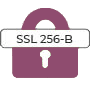
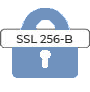
checkoutready

diff --git a/checkout.html b/checkout.html
@@ -8,7 +8,7 @@
         <meta name="viewport" content="width=device-width, initial-scale=1, shrink-to-fit=no">
         <meta name="description" content="">
         <meta name="author" content="">
-        <title>Carrito </title>
+        <title>Carrito</title>
         <!-- FavIcon-->
         <link rel="icon" href="img/fav.html" type="image/png">
         <!-- Bootstrap core CSS -->
@@ -73,10 +73,10 @@ height="0" width="0" style="display:none;visibility:hidden"></iframe></noscript>
             <div class="container">
                 <div class="row align-items-center">
                     <div class="col-md-2 col-sm-6 col-6 logo">
-                        <a href="https://aprendeyogaacademia.com/" target="_blank"> <img src="img/logonuevo.jpg" alt="logo" class="img-fluid" width="50%"> </a>
+                 <img src="img/Libreriadigitallogo1.png" alt="logo" class="img-fluid" width="50%"> </a>
                     </div>
                     <div class="col-md-3 hdphone">
-                        <p>Aprende en casa</p>
+                        <p>Libreria digital. Aprende de una manera distinta</p>
                     </div>
                     <div class="col-md-3 hdphone">
                         <img src="img/seguridad.png" alt="security" class="img-fluid">
@@ -89,7 +89,7 @@ height="0" width="0" style="display:none;visibility:hidden"></iframe></noscript>
         <div class="container  rounded py-5  mx-auto bg-light">
             <div class="row  justify-content-center">
                 <div class="col-md-5 order-md-2 col-xl-4" >
-                    <h4 class="d-flex justify-content-between mb-3 mx-3"> <span class="" style="color:#8f4c6f;"><b>Tu Carrito </b><i class="fas fa-cart-arrow-down"></i></span> </h4>
+                    <h4 class="d-flex justify-content-between mb-3 mx-3"> <span class="" style="color:#718aff;"><b>Tu Carrito </b><i class="fas fa-cart-arrow-down"></i></span> </h4>
                     <ul class="list-group">
                         <li class="list-group-item d-flex justify-content-between" >
                             <div>
@@ -125,7 +125,7 @@ height="0" width="0" style="display:none;visibility:hidden"></iframe></noscript>
 
                 <div class="col-md-6 order-md-2 my-auto col-xl-5 " id="arriba" >
                     <div id="gr" >
-                        <h2 class="mt-5 pt-5 text-center mb-15 f-50 font-weight-bold">¿Cómo hago para comprar?</h2>
+                        <h2 class="mt-15 pt-15 text-center mb-15 f-50 font-weight-bold">¿Cómo hago para comprar?</h2>
                         <hr   style="height:2px;width:40%; background-color:#c53b3b; text-shadow: 3px 2px 5px black;"> 
                         <p class="mt-2 text-dark lead mx-5 pb-3"><b>Completá el siguiente formulario</b> para abonar el curso. Una vez que lo abones, vas a recibir al instante un e-mail con el acceso al curso.</p>
                     </div>
@@ -152,7 +152,7 @@ height="0" width="0" style="display:none;visibility:hidden"></iframe></noscript>
                                 </div>
                             </div>
                             <p class="text-left my-2">Luego de abonar, aguardá unos segundos para ser dirigida a nuestro sitio web 😊.</p>
-                            <button type="button" id="submitButton" style="cursor:pointer; background-color:#68aa21;" class="btn hvr-sweep-to-right w-100 py-3 text-white">👉 Proceder con el pago</button>
+                            <button type="button" id="submitButton" style="cursor:pointer; background-color: green;" class="btn hvr-sweep-to-right w-100 py-3 text-white">👉 Proceder con el pago</button>
                             <div class="loading" id="spinnerloading">
                                 <div class="loader"></div>
                             </div>
@@ -171,15 +171,12 @@ height="0" width="0" style="display:none;visibility:hidden"></iframe></noscript>
                 <p class="pi-draggable text-center" draggable="true">Tus datos están seguros</p>
             </div>
             <div class="col-4">
-                <img class="img-fluid d-block mx-auto" src="img/badge3.png">
+                <img class="img-fluid d-block mx-auto" src="img/badget33.png">
                 <p class="pi-draggable text-center">Garantía de satisfacción 100%</p>
             </div>
         </div>
         <div class="call-button mt-5" id="ch">
             <div class="row">
-                <div class="col-10 mx-auto">
-                    <a href="#arriba" class=" hvr-sweep-to-top " >Pagar&nbsp; 🛒</a>
-                </div>
                 <div class="col-md-6 my-2 text-center payments">
                     <img src="img/securityjpg.jpg" class="img-fluid " >
                 </div>
@@ -189,7 +186,7 @@ height="0" width="0" style="display:none;visibility:hidden"></iframe></noscript>
             <div class="container">
                 <div class="row">
                     <div class="col-md-12">
-                        <h3 class="font-bold">¿Querés hablar con nosotras? ¡Escribinos ahora!</h3>
+                        <h3 class="font-bold">¿Querés hablar con nosotros? ¡Escribinos ahora!</h3>
                         <hr>
                     </div>
                 </div>
@@ -209,7 +206,7 @@ height="0" width="0" style="display:none;visibility:hidden"></iframe></noscript>
             <div class="container ">
                 <div class="row align-items-center">
                     <div class="col-md-5 mx-auto">
-                        <a href="https://aprendeyogaacademia.com/" target="_blank"> <img src="img/logonuevo.jpg"   alt="logo" class="img-fluid col-4"> </a>
+                        <a href="https://aprendeyogaacademia.com/" target="_blank"> <img src="img/Libreriadigitallogo1.png"   alt="logo" class="img-fluid col-4"> </a>
                     </div>
 
                     <div class="col-md-3" id="gr">
@@ -240,7 +237,11 @@ height="0" width="0" style="display:none;visibility:hidden"></iframe></noscript>
                     <div class="modal-body">
                         <div class="row">
                             <div class="col-md-12">
-                                <p>El presente curso ha sido diseñado para ser realizado y ejecutado sin la supervisión de un instructor profesional de yoga. Cumplimos en informarle que el presente curso, junto con toda la información, instrucciones e indicaciones contenidas en el, ha sido diseñado siguiendo los lineamientos generales de cada postura de yoga, aplicables a la generalidad de las personas. Le rogamos tener en consideración que el yoga es un ejercicio físico y que debe tomar las precauciones necesarias antes de practicarlo. Previo a comenzar el curso, recomendamos consultar a un médico a fin de asegurarse de estar en condiciones físicas óptimas para la práctica del yoga sin incurrir en riesgos para su salud. El vendedor, el autor y cualquier otro participe de la cadena comercialización del presente curso de yoga, no tendrán ningún grado de responsabilidad por cualquier tipo de lesión o menoscabo a la salud que pueda resultar de manera directa o indirecta de la realización indebida o errónea del presente curso. Si en cualquier momento de la realización del curso usted experimenta cualquier tipo de molestia o dolor, suspenda inmediatamente los ejercicios y consulte a un médico. El vendedor, autor o cualquier otro integrante de la cadena de consumo no pueden garantizarle que la realización del presente curso vaya a tener un impacto positivo en su salud. Al adquirir el presente curso via internet, a través de una página web, usted opta expresamente por recibir esta información en soporte digital. 1 Art. 4, Ley Nacional 24.240: “Información. El proveedor está obligado a suministrar al consumidor en forma cierta, clara y detallada todo lo relacionado con las características esenciales de los bienes y servicios que provee, y las condiciones de su comercialización.”</p>
+                                <p>Este curso ha sido diseñado para ser completado de manera autónoma y sin la supervisión de un instructor profesional en Prompt Engineering. Queremos informarle que este curso, junto con toda la información, instrucciones e indicaciones proporcionadas, ha sido desarrollado siguiendo los principios generales de la disciplina, aplicables en términos generales. Le recomendamos tener en cuenta que el Prompt Engineering implica interacciones técnicas y creativas.
+
+                                    Antes de comenzar el curso, le sugerimos encarecidamente que consulte con profesionales adecuados para asegurarse de que está en condiciones óptimas para participar sin riesgos para su salud. Los creadores, el vendedor y cualquier otra entidad involucrada en la distribución de este curso de Prompt Engineering no asumen responsabilidad por cualquier lesión o perjuicio directo o indirecto que pueda surgir de una participación inapropiada o incorrecta.
+                                    
+                                    Si en algún momento durante el curso experimenta molestias o dificultades, le recomendamos que suspenda inmediatamente y busque asesoramiento. Tenga en cuenta que los resultados individuales pueden variar y no se puede garantizar un impacto específico en sus habilidades. Al adquirir este curso en línea, a través de una plataforma digital, acepta recibir esta información en formato electrónico.</p>
                             </div>
                         </div>
                     </div>

diff --git a/index.html b/index.html
@@ -148,16 +148,16 @@ height="0" width="0" style="display:none;visibility:hidden"></iframe></noscript>
   <div class="py-5  " id="ch">
     <div class="container ">
       <div class="col-md-10  ">
-        <h1 style="font-size:37px; " class=" t"><b>Tu cuerpo te está hablando.</b></h1>
+        <h1 style="font-size:37px; " class=" t"><b>El futuro es ahora</b></h1>
         <p class=" lead " style="font-size:%;"> 
-           La medicina Ayurveda busca entender qué es lo que está intentando decirte. A través de este libro digital podrás aprender y poner en práctica todos los principios y técnicas de esta práctica milenaria de la India.</p>
+          La Prompt Engineering se esfuerza por decodificar la intención detrás de tus instrucciones. Mediante este libro digital, tendrás la oportunidad de adquirir conocimientos y aplicar de manera efectiva los fundamentos y métodos de esta innovadora práctica en ingeniería.</p>
       </div>
     </div>
   </div>
     
     <div class="row " id="ch">
             <div class="col-md-6 mt-3 ">
-              <img class="img-fluid d-blockrounded shadow mx-auto" src="img/medicina_ayurvedica.jpg">
+              <img class="img-fluid d-blockrounded shadow mx-auto" src="img/El futuro es ahora.png">
             </div>
              
     </div>
@@ -374,10 +374,10 @@ Potencia tu creatividad y eficiencia con el Prompt Engineering. Automatiza tarea
         </div>
         <div class="col-md-6 ml-md-5 my-auto text-left" style="">
           <div class="section-heading">
-             <h1 class="mt- "><b>Iniciá tu camino HOY</b></h1>
+             <h1 class="mt- "><b>Iniciá tu camino HOY en Prompt Engineering</b></h1>
           </div>
           <div class="feature-list mt-4">
-            <p class="">Descargá el curso en tu e-mail y alcanzá el cambio que estás buscando </p>
+            <p class="">Descargá el curso en tu e-mail y alcanzá todo el potencial que ofrece ChatGPT</p>
               
               <h1 class="mx-auto ml-md-0 rounded mt-4  shadow text-white font-weight-bold p-2 mt-3 col-8 col-md-6 text-center" style="background-color:#fc5757;"><strike><em>$2.994 </em></strike><span  > <em>$599</em></span></h1>
              
@@ -400,7 +400,7 @@ Potencia tu creatividad y eficiencia con el Prompt Engineering. Automatiza tarea
     
   <footer>
       <div class="" id="ch">
-               <img class="img-fluid d-block " src="img/bottom.jpg">
+               <img class="img-fluid d-block " src="img/Libreriadigitallogo.png">
      </div>
     <div class="container">
       <div class="row align-items-center">
@@ -455,7 +455,7 @@ Potencia tu creatividad y eficiencia con el Prompt Engineering. Automatiza tarea
     <div class="call-button container">
       <div class="row justify-content-center align-items-center">
         <div class="col-md-10">
-          <a href="checkout.html" class=" ">¡Quiero hacerlo!</a>
+          <a href="checkout.html" class=" " style="background-color:#718aff;">¡Quiero hacerlo!</a>
         </div>
       </div>
     </div>
